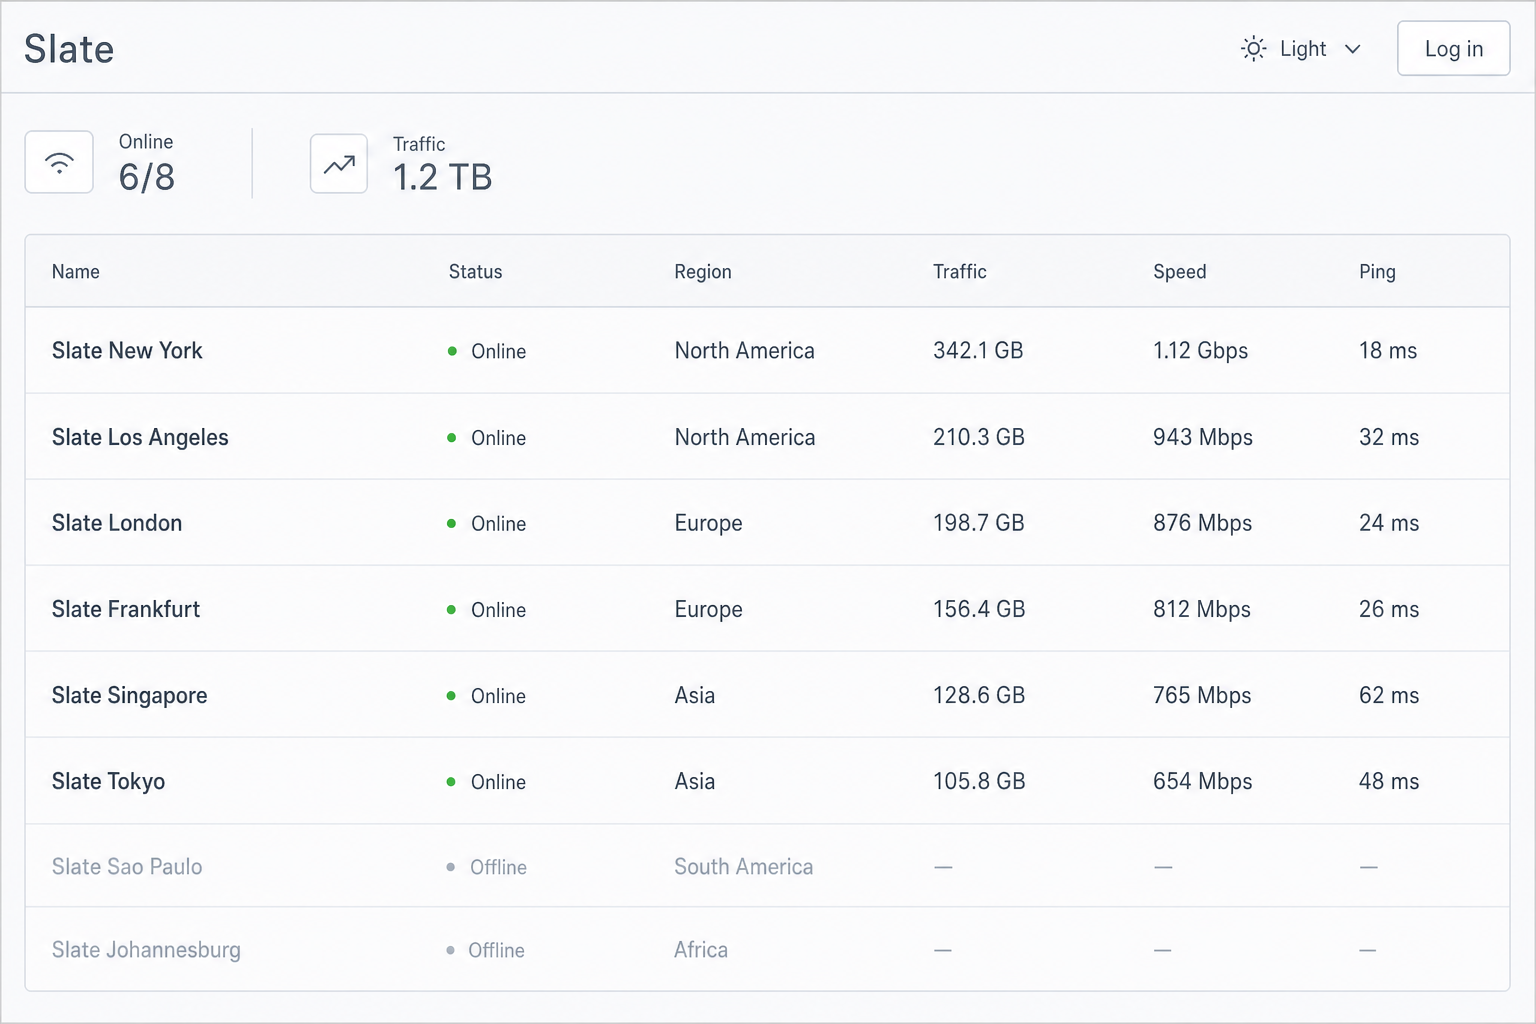
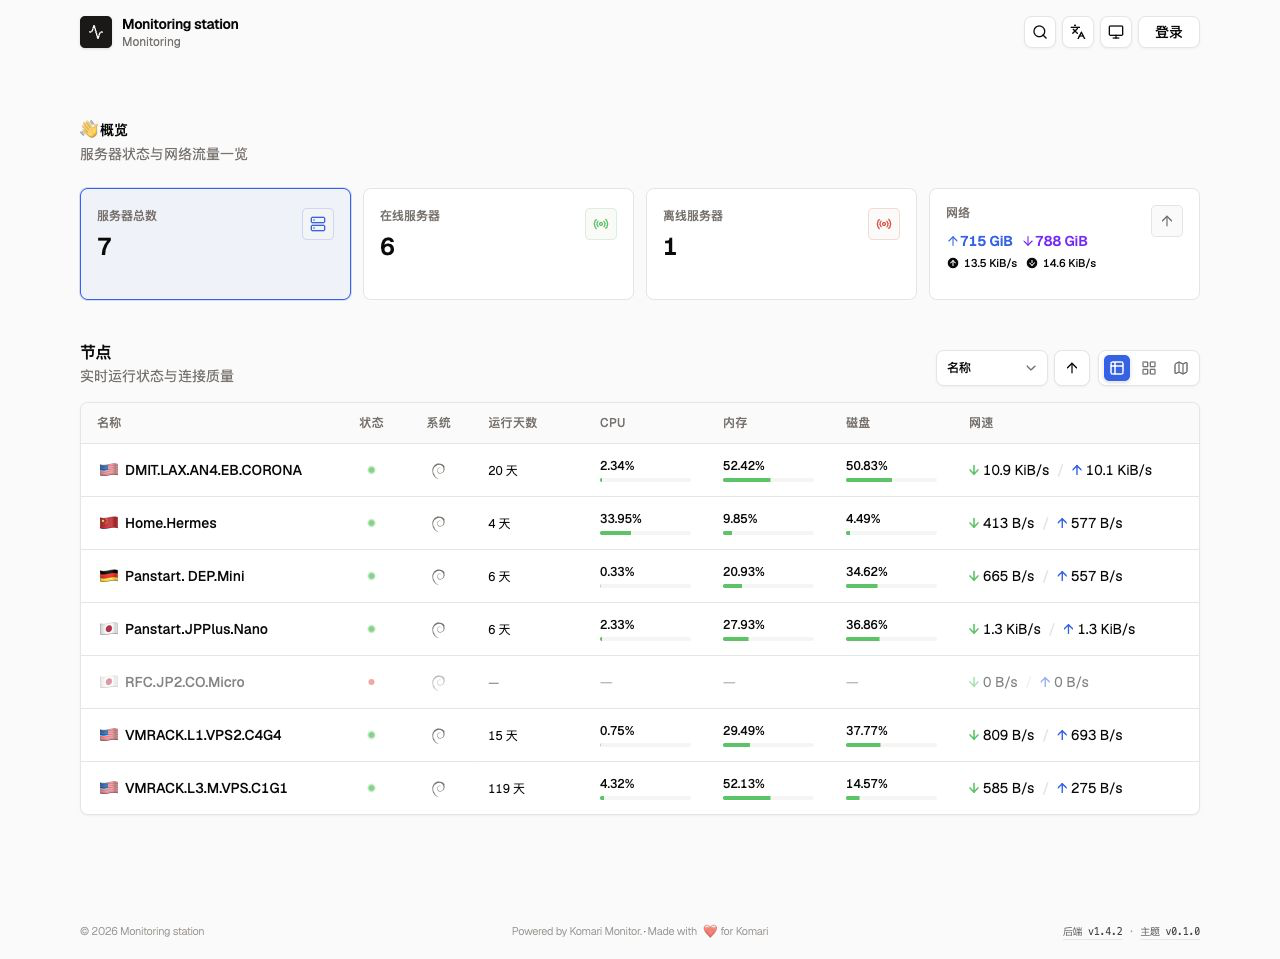
chore: 更新主题描述和 README，增强安装说明与功能概述

diff --git a/README.md b/README.md
@@ -1,29 +1,155 @@
 # Slate
 
-石板克制、表优先的 [Komari](https://github.com/komari-monitor/komari) 主题。需要 **Komari >= 1.0.7**（RPC2）。
+Slate is a restrained [Komari](https://github.com/komari-monitor/komari) theme. The home page shows nodes in a table by default. It is built with **Vite**, **React**, **TypeScript**, **Tailwind CSS**, and **shadcn/ui**, then packaged as static assets you can upload as a Komari theme.
 
-## 安装
+[中文](README-CN.md) · [Download theme](https://github.com/xkrfer/komari-theme-slate/releases/latest)
 
-1. 下载 Release 里的 `komari-theme-slate.zip`，或本地执行 `pnpm package`。
-2. 在 Komari 后台上传 ZIP 并启用 **Slate**。
-3. 主题设置里只有两项：默认外观、访客默认视图（仅约束桌面首次访问；手机仍默认卡片）。
+> This repository contains the frontend only. You need a running Komari backend. The recommended setup is to download the ZIP from Releases and upload it in the Komari admin dashboard.
 
-## 开发
+> [!IMPORTANT]
+> Requires **Komari >= 1.0.7** (RPC2). Older versions cannot load node data.
 
-包管理只用 pnpm。
+![Preview](preview.png)
+
+## Features
+
+- Live dashboard: online / offline counts, total traffic, and current network speed
+- Three home views: table, cards, and map (table on desktop by default, cards on mobile)
+- Table view: name, status, OS icon, uptime, CPU / memory / disk usage, live speed
+- Card view: region flag, IPv4 / IPv6 tags, days until expiry, renewal price, traffic and resource usage
+- Map view: nodes grouped by region; click through to an instance
+- Node search, group filter, and sorting (name / status / region / uptime / CPU / memory / disk / speed)
+- Instance detail: overview, hardware, live metrics; load and ping charts; live / 1 day / 7 days / 30 days; ping peak clipping
+- Admin sign-in with optional 2FA, then a shortcut into the Komari admin console
+- Simplified Chinese / English; light / dark / system appearance
+- Theme settings managed in the Komari admin panel, applied on a visitor's first visit
+- ZIP packaging and GitHub Release workflow for Komari's theme system
+
+## Tech stack
+
+- **Build:** Vite 8 (`/api` proxy in development, static output to `dist/` in production)
+- **Language:** TypeScript, React 19
+- **Routing / data:** TanStack Router, TanStack Query, TanStack Table
+- **UI:** shadcn/ui (Base UI), Tailwind CSS v4, Lucide
+- **Charts / map:** ECharts, TopoJSON
+- **Validation:** Zod
+- **Package manager:** pnpm
+
+In production, node status is refreshed about every 2 seconds over a WebSocket to `/api/rpc2`, with HTTP polling as fallback. In development the Vite proxy does not forward WebSocket, so status always uses HTTP polling.
+
+## Prerequisites
+
+- **Node.js** 22 or newer (CI uses 24)
+- **pnpm** 10 (pinned via `packageManager`)
+- A reachable **Komari >= 1.0.7** backend
+
+## Install
+
+1. Download `komari-theme-slate-v*.zip` from [Releases](https://github.com/xkrfer/komari-theme-slate/releases/latest), or run `pnpm package` locally.
+2. Upload the ZIP in the Komari admin dashboard and enable **Slate**.
+3. Optionally adjust the default appearance and visitor default view in theme settings.
+
+The ZIP contains:
+
+```text
+komari-theme.json
+preview.png
+dist/
+```
+
+## Development
+
+Use pnpm only. After cloning:
 
 ```bash
 pnpm install
 cp .env.example .env
-# 按需修改 VITE_API_TARGET，默认 http://127.0.0.1:25774
 pnpm dev
 ```
 
-构建与打包：
+Then open `http://localhost:5173`.
+
+### API target
+
+The dev server proxies `/api` to the Komari backend. Set this in `.env` at the repo root:
+
+```env
+VITE_API_TARGET=http://127.0.0.1:25774
+VITE_THEME_VERSION=0.1.0
+```
+
+Point `VITE_API_TARGET` at your Komari instance.
+
+## Environment variables
+
+| Variable | Description | Default |
+| --- | --- | --- |
+| `VITE_API_TARGET` | Komari backend URL used by the dev proxy | `http://127.0.0.1:25774` |
+| `VITE_THEME_VERSION` | Theme version shown in the footer and used when packaging; must match `version` in `komari-theme.json` | `version` in `komari-theme.json` |
+
+These are for local development and packaging only. After the theme is deployed on Komari, the browser calls `/api/rpc2` and `/api/login` on the current site.
+
+## Theme settings
+
+`komari-theme.json` declares two settings managed in the Komari admin panel:
+
+| Key | Options | Default | Notes |
+| --- | --- | --- | --- |
+| `defaultAppearance` | `system` / `light` / `dark` | `system` | Used when the visitor has not set a local appearance |
+| `defaultView` | `table` / `cards` / `map` | `table` | Desktop first visit only; mobile still defaults to cards |
+
+After a visitor picks a value, it is stored locally (`appearance`, `slate:view`) and takes priority afterwards.
+
+## Build and package
 
 ```bash
 pnpm build
 pnpm package
 ```
 
-提交前 husky + lint-staged 会跑 Biome。
+`pnpm build` writes the static site to `dist/`. `pnpm package` checks that `komari-theme.json`, `preview.png`, `dist/index.html`, and the version numbers match, then writes:
+
+```text
+komari-theme-slate-v{version}.zip
+```
+
+Husky + lint-staged run Biome before each commit. You can also run:
+
+```bash
+pnpm typecheck
+pnpm lint
+pnpm format
+```
+
+## Release
+
+Use the GitHub Actions workflow **Release theme** (`workflow_dispatch`):
+
+1. Run the workflow from the repository Actions tab.
+2. Enter a SemVer value without the `v` prefix, for example `0.1.0` or `0.2.0-beta.1`.
+3. The workflow validates the version, runs typecheck / lint, builds and packages the theme, then creates a GitHub Release with the ZIP attached. Versions that contain `-` are marked as pre-release.
+
+## Scripts
+
+| Command | Description |
+| --- | --- |
+| `pnpm dev` | Start the Vite dev server |
+| `pnpm build` | Build static assets into `dist/` |
+| `pnpm preview` | Preview the production build |
+| `pnpm package` | Build and package the theme ZIP |
+| `pnpm typecheck` | TypeScript type check |
+| `pnpm lint` | Biome check |
+| `pnpm format` | Biome format and fix |
+
+## Acknowledgements
+
+UI and interaction draw from:
+
+- [nezha-dash](https://github.com/hamster1963/nezha-dash) — information density and table layout of the Nezha dashboard
+- [komari-next](https://github.com/tonyliuzj/komari-next) — Komari theme packaging, map view, card billing details, and instance detail structure
+
+The backend is [Komari](https://github.com/komari-monitor/komari).
+
+## License
+
+[MIT](LICENSE) © DouDou

diff --git a/README-CN.md b/README-CN.md
@@ -1,0 +1,155 @@
+# Slate
+
+Slate 是一套简洁克制的 [Komari](https://github.com/komari-monitor/komari) 主题，首页默认用表格展示节点。基于 **Vite**、**React**、**TypeScript**、**Tailwind CSS** 和 **shadcn/ui** 构建，打包为静态资源后可作为 Komari 主题上传使用。
+
+[English](README.md) · [下载主题](https://github.com/xkrfer/komari-theme-slate/releases/latest)
+
+> 本仓库只包含前端。界面需要一个正在运行的 Komari 后端。推荐从 Release 下载 ZIP，在 Komari 管理后台上传并启用。
+
+> [!IMPORTANT]
+> 需要 **Komari >= 1.0.7**（RPC2）。低于该版本时无法拉取节点数据。
+
+![预览](preview.png)
+
+## 功能特性
+
+- 实时仪表盘：总览在线 / 离线数量与上下行流量、网速
+- 三种首页视图：表格、卡片、地图（桌面默认表格，手机默认卡片）
+- 表格视图：名称、状态、系统图标、运行天数、CPU / 内存 / 磁盘占用、实时网速
+- 卡片视图：地区旗帜、IPv4 / IPv6 标签、到期剩余天数、续费价格、流量与资源占用
+- 地图视图：按地区聚合节点，点击进入对应实例
+- 节点搜索、分组筛选、多字段排序（名称 / 状态 / 地区 / 运行时间 / CPU / 内存 / 磁盘 / 网速）
+- 实例详情：概览、硬件规格、实时指标；负载与 Ping 图表；实时 / 1 天 / 7 天 / 30 天；Ping 削峰
+- 管理员登录（支持 2FA），登录后可进入 Komari 后台
+- 简体中文 / English；浅色 / 深色 / 跟随系统
+- 主题设置可在 Komari 后台配置，并写入访客首次访问的默认值
+- 适配 Komari 主题系统的 ZIP 打包与 GitHub Release 流程
+
+## 技术栈
+
+- **构建：** Vite 8（开发代理 `/api`，生产静态导出到 `dist/`）
+- **语言：** TypeScript、React 19
+- **路由 / 数据：** TanStack Router、TanStack Query、TanStack Table
+- **UI：** shadcn/ui（Base UI）、Tailwind CSS v4、Lucide
+- **图表 / 地图：** ECharts、TopoJSON
+- **校验：** Zod
+- **包管理：** pnpm
+
+生产环境通过 WebSocket 调用 `/api/rpc2` 刷新节点状态（约 2 秒一次），失败时回退到 HTTP 轮询。开发模式下 Vite 代理不转发 WebSocket，因此始终使用 HTTP 轮询。
+
+## 前置要求
+
+- **Node.js** 22 或更高版本（CI 使用 24）
+- **pnpm** 10（仓库已锁定 `packageManager`）
+- 一个可访问的 **Komari >= 1.0.7** 后端
+
+## 安装
+
+1. 从 [Releases](https://github.com/xkrfer/komari-theme-slate/releases/latest) 下载 `komari-theme-slate-v*.zip`，或本地执行 `pnpm package`。
+2. 在 Komari 后台上传 ZIP 并启用 **Slate**。
+3. 按需在主题设置中调整默认外观和访客默认视图。
+
+ZIP 内包含：
+
+```text
+komari-theme.json
+preview.png
+dist/
+```
+
+## 开发
+
+只使用 pnpm。克隆仓库后：
+
+```bash
+pnpm install
+cp .env.example .env
+pnpm dev
+```
+
+然后打开 `http://localhost:5173`。
+
+### 配置 API 目标
+
+开发服务器会把 `/api` 代理到 Komari 后端。在项目根目录的 `.env` 中设置：
+
+```env
+VITE_API_TARGET=http://127.0.0.1:25774
+VITE_THEME_VERSION=0.1.0
+```
+
+将 `VITE_API_TARGET` 改成你的 Komari 实例地址。
+
+## 环境变量
+
+| 变量 | 说明 | 默认值 |
+| --- | --- | --- |
+| `VITE_API_TARGET` | 开发时代理的 Komari 后端地址 | `http://127.0.0.1:25774` |
+| `VITE_THEME_VERSION` | 页脚与打包使用的主题版本；需与 `komari-theme.json` 的 `version` 一致 | `komari-theme.json` 中的 `version` |
+
+这两项只在本地开发和打包时使用。作为 Komari 主题部署后，浏览器会请求当前站点的 `/api/rpc2` 与 `/api/login`。
+
+## 主题设置
+
+`komari-theme.json` 声明了可在 Komari 后台管理的两项配置：
+
+| 键 | 选项 | 默认 | 说明 |
+| --- | --- | --- | --- |
+| `defaultAppearance` | `system` / `light` / `dark` | `system` | 访客尚未设置本地外观时使用 |
+| `defaultView` | `table` / `cards` / `map` | `table` | 仅约束桌面首次访问；手机仍默认卡片 |
+
+访客选择后会写入本地存储（`appearance`、`slate:view`），之后优先使用本地值。
+
+## 构建与打包
+
+```bash
+pnpm build
+pnpm package
+```
+
+`pnpm build` 将静态站点输出到 `dist/`。`pnpm package` 会校验 `komari-theme.json`、`preview.png`、`dist/index.html` 以及版本号一致，然后生成：
+
+```text
+komari-theme-slate-v{version}.zip
+```
+
+提交前 husky + lint-staged 会跑 Biome。也可手动执行：
+
+```bash
+pnpm typecheck
+pnpm lint
+pnpm format
+```
+
+## 发布
+
+使用 GitHub Actions 工作流 **Release theme**（`workflow_dispatch`）：
+
+1. 在仓库 Actions 中运行该工作流。
+2. 输入不带 `v` 前缀的 SemVer，例如 `0.1.0` 或 `0.2.0-beta.1`。
+3. 工作流会校验版本、跑 typecheck / lint、构建并打包，然后创建 GitHub Release 并附上 ZIP。含 `-` 的版本会标记为 pre-release。
+
+## 脚本
+
+| 命令 | 说明 |
+| --- | --- |
+| `pnpm dev` | 启动 Vite 开发服务器 |
+| `pnpm build` | 构建静态资源到 `dist/` |
+| `pnpm preview` | 预览生产构建 |
+| `pnpm package` | 构建并打包主题 ZIP |
+| `pnpm typecheck` | TypeScript 类型检查 |
+| `pnpm lint` | Biome 检查 |
+| `pnpm format` | Biome 格式化并修复 |
+
+## 致谢
+
+界面与交互参考了：
+
+- [nezha-dash](https://github.com/hamster1963/nezha-dash) — 哪吒监控仪表盘的信息密度与表格布局
+- [komari-next](https://github.com/tonyliuzj/komari-next) — Komari 主题打包方式、地图、卡片账单信息与实例详情结构
+
+后端来自 [Komari](https://github.com/komari-monitor/komari)。
+
+## License
+
+[MIT](LICENSE) © DouDou
